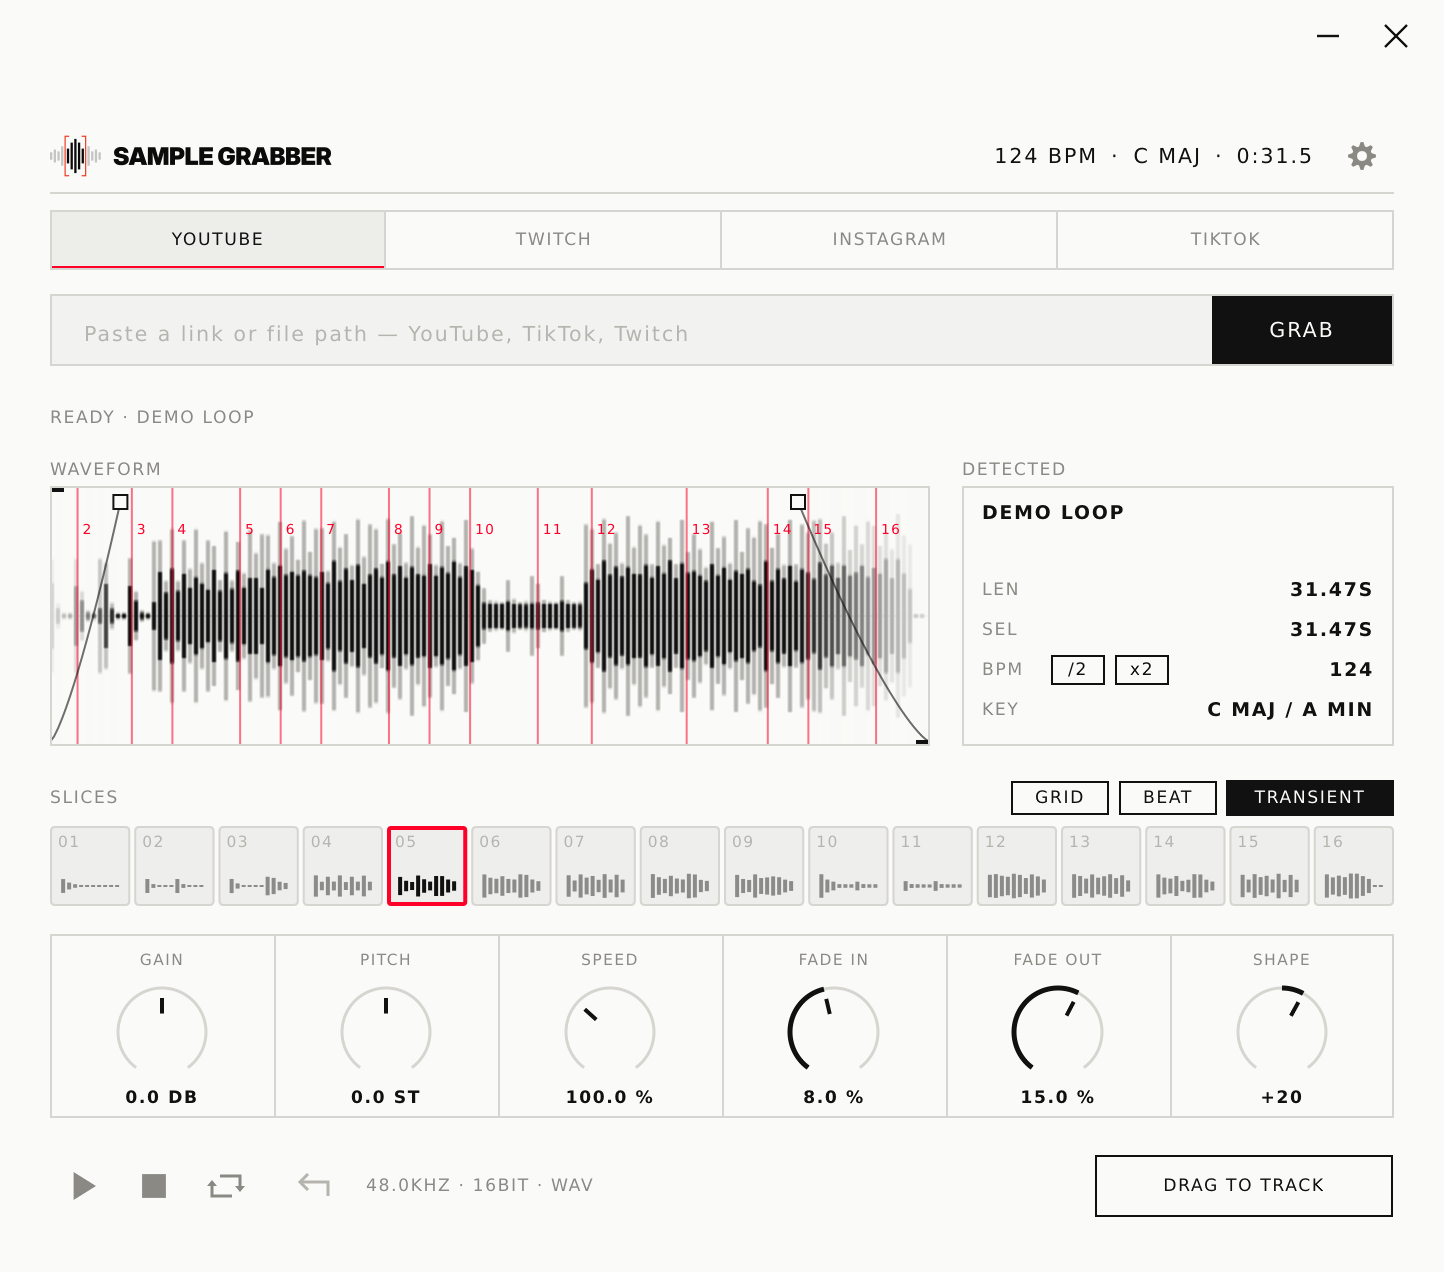
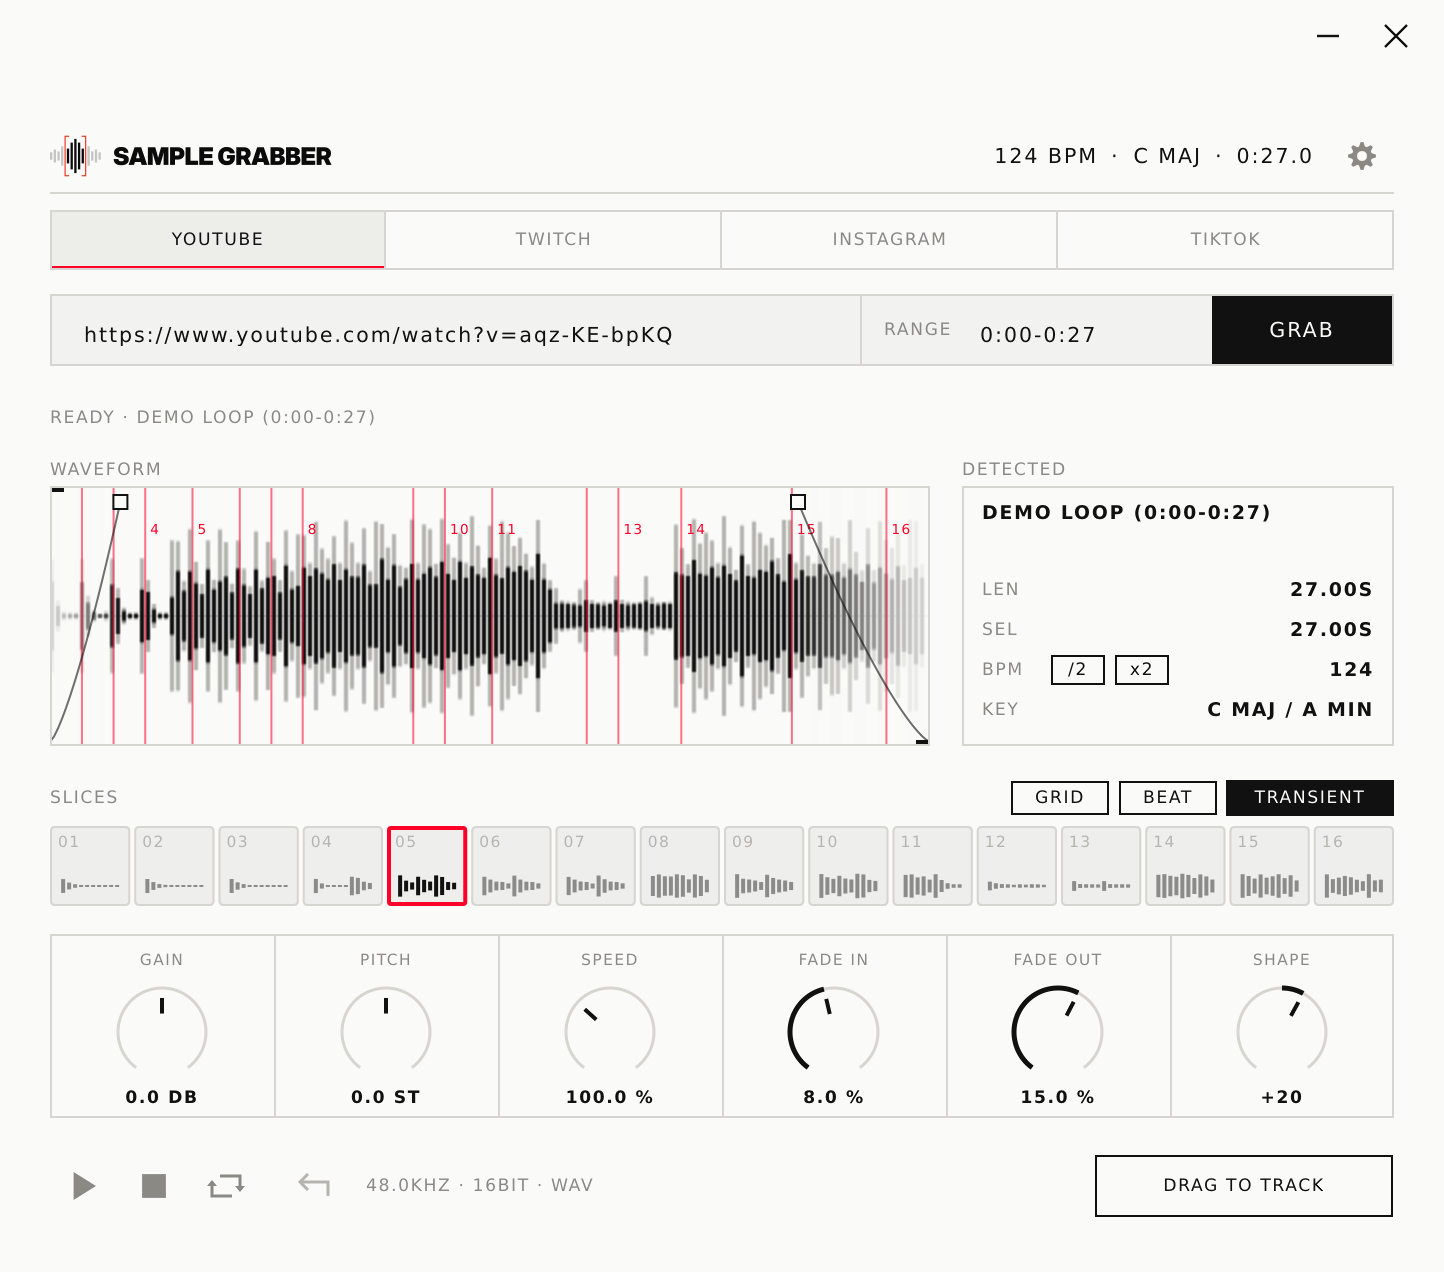
README: Linux install, status, features; refreshed screenshots

diff --git a/README.md b/README.md
@@ -22,12 +22,13 @@
 
 | | |
 |---|---|
-| **Grab** | Paste a YouTube, TikTok, Instagram or Twitch link, or a local file path (WAV, MP3, M4A, Opus, video ...). |
+| **Grab** | Paste a YouTube, TikTok, Instagram or Twitch link, a local file path, or drop a file onto the window (WAV, MP3, M4A, Opus, video ...). Grab only a part with a time range (`1:02-1:30`, or `t=` in the link); long downloads can be cancelled. |
 | **Trim** | Waveform with in/out handles, zoom, loop and instant playback. |
 | **Slice** | Auto-slice the selection across 16 pads: **Grid**, **Beat** or **Transient**. Pads respond to clicks and MIDI notes 36-51. |
 | **Analyse** | BPM and key detection on the whole track or the current selection, with tempo octave `/2` `x2`. |
 | **Shape** | Gain, pitch and speed (independent, applied live), fade in/out with adjustable curve, drawn right in the waveform. |
-| **Drop** | Drag a pad or the whole selection into your DAW as a WAV file. |
+| **Drop** | Drag a pad or the whole selection into your DAW as a WAV file (saved under `~/Music/Sample Grabber`). |
+| **Recall** | The plugin state is saved with your DAW project, including the selected audio - it still plays if the download is gone. |
 | **Tools** | yt-dlp, deno and ffmpeg are installed and kept up to date by the app itself - from their official GitHub releases, SHA-256 verified. No Python, no PATH setup. |
 
 <p align="center">
@@ -42,9 +43,24 @@ Early development. Expect rough edges and breaking changes between commits.
 
 | Platform | State |
 |---|---|
-| Linux x86_64 | Builds and runs (developed on Ubuntu 22.04 / WSL2) |
+| Linux x86_64 | Works. Built on Ubuntu 22.04 (glibc 2.35), tested on Ubuntu 26.04 in Ardour, Reaper and Bitwig |
+| Linux ARM64 | Planned (code prepared, not built yet) |
 | Windows x64 / ARM64 | Planned |
 | macOS (Apple Silicon) | Planned |
+
+Known limitations on Linux: in Bitwig, dropping a file *onto the plugin window* does not reach the plugin
+(Bitwig keeps the drop) - paste the file path into the link field instead. Dragging pads *out* works everywhere.
+
+## Install (Linux)
+
+Download `sample-grabber-<version>-linux-x86_64.tar.gz`, unpack it and run:
+
+```bash
+./install.sh      # VST3 to ~/.vst3, app to ~/.local/bin + app menu entry, no root needed
+./uninstall.sh    # removes it again (add --purge to also delete settings, tools and cache)
+```
+
+Rescan plugins in your DAW if it does not show up. More notes in [`packaging/linux/README.txt`](packaging/linux/README.txt).
 
 ## Build (Linux)
 
@@ -69,6 +85,8 @@ Artefacts:
 On first start the app offers **INSTALL TOOLS** (about 220 MB download: yt-dlp, deno, ffmpeg).
 They go to `~/.config/SampleGrabber/bin` and are managed from the settings (gear icon, top right).
 At runtime Linux needs `curl`, `tar` and `xz`.
+
+`bash scripts/package-linux.sh` builds the release tarball into `dist/`.
 
 Developing in WSL2? `scripts/setup-wsl.sh` installs the build dependencies, `scripts/wsl-audio.sh` routes ALSA to WSLg's PulseAudio.
 
